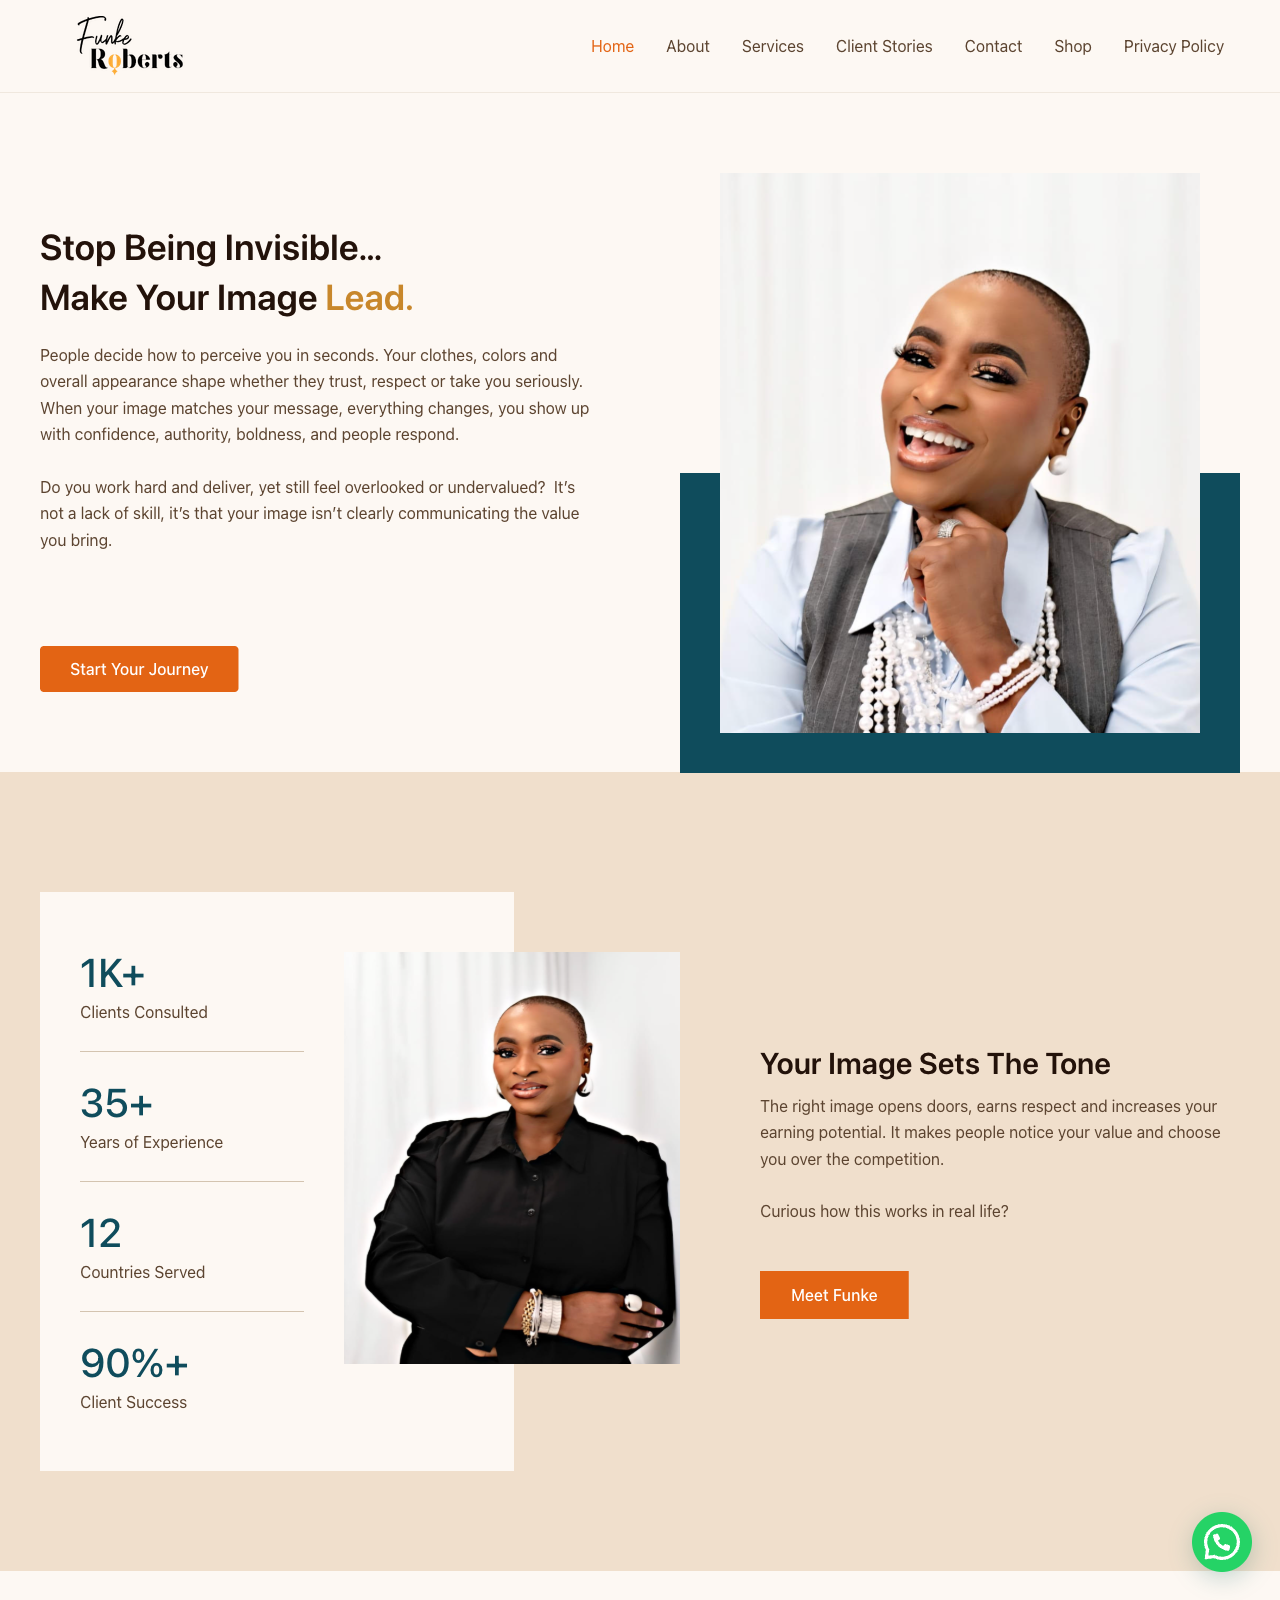
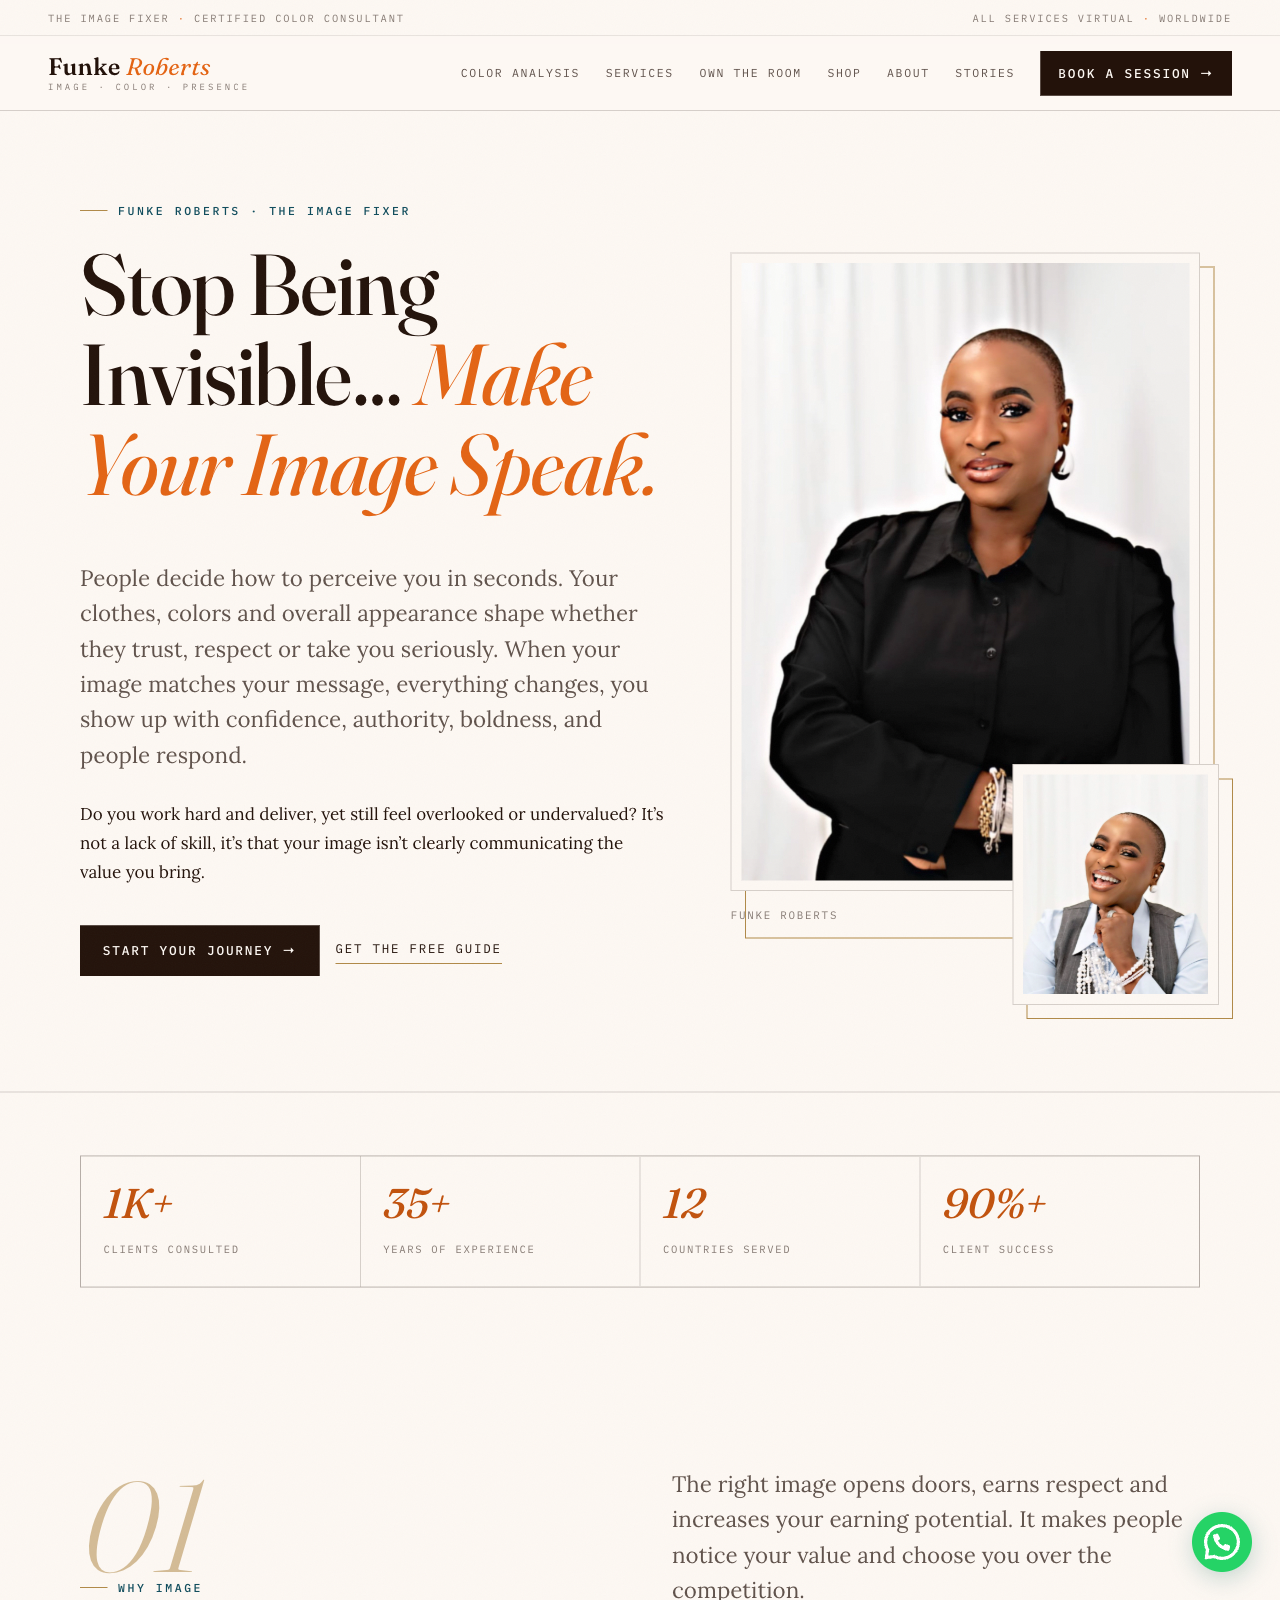
Rewrite Funke Roberts case study for the 2026 editorial redesign
New live-site screenshot, corrected stack (custom theme + SureCart, was
listed as WooCommerce/Elementor), guided entry flow + email automation
in the story. Adds missing SOCIAL_LINKS.facebook key referenced by Navbar.

diff --git a/constants.ts b/constants.ts
@@ -121,24 +121,24 @@ export const PROJECTS: Project[] = [
   },
   {
     id: '4',
-    title: 'Funke Roberts',
+    title: 'Funke Roberts — The Image Fixer',
     category: 'WEB DESIGN',
     imageUrl: '/projects/funke-roberts.png',
-    description: 'Image consulting brand with a digital storefront. WordPress site featuring personal branding services, client stories, and an integrated e-commerce shop for skincare products.',
-    tags: ['WordPress', 'WooCommerce', 'Brand Design', 'E-Commerce'],
+    description: 'Editorial redesign and relaunch for a New York image consultant and certified color analyst. A hand-built WordPress theme with couture-magazine typography, a guided client entry flow written with the client, and automated lead follow-up.',
+    tags: ['WordPress', 'Brand System', 'Email Automation', 'Web Design'],
     liveUrl: 'https://funkeroberts.com',
     year: '2026',
-    problem: 'An image consultant with a powerful personal brand needed a digital presence that matched her authority. Her message—"Stop Being Invisible... Make Your Image Speak"—needed a site that felt premium, conveyed trust, and seamlessly integrated service bookings with product sales.',
+    problem: 'Her message — "Stop Being Invisible... Make Your Image Speak" — deserved more than a template. The first site put her online, but a year in her flagship color analysis was buried three clicks deep, leads went quiet after downloading her free guide, and nothing guided a visitor to the right next step. The redesign rebuilt every page around booking sessions and put follow-up on autopilot.',
     tools: [
-      { name: 'WordPress', reason: 'Chosen for its flexibility in combining content marketing, service pages, and e-commerce under one roof—giving the client full content ownership.' },
-      { name: 'WooCommerce', reason: 'Integrated digital store for skincare products, enabling direct-to-consumer sales alongside consulting services.' },
-      { name: 'Elementor', reason: 'Visual page builder that empowers the client to update content, testimonials, and product listings without developer involvement.' },
-      { name: 'Custom Branding', reason: 'Designed warm, authoritative visual identity with earthy tones that reflect the client\'s personal brand and target audience.' }
+      { name: 'Custom WP Theme', reason: '"Funke Atelier," designed and hand-coded from scratch: Fraunces and Lora editorial typography, hairline-framed photography plates, and magazine pacing — her exact copy and her real client photography, elevated.' },
+      { name: 'Guided Entry Flow', reason: 'A five-option "tell me which sounds most like you" chooser co-written with the client routes every visitor to the right offer, from a $37 workbook to one-to-one sessions.' },
+      { name: 'Email Automation', reason: 'Custom bridge plugin: form submissions deliver her guide instantly and schedule a warm day-7 follow-up recommending a session — no lead goes quiet again.' },
+      { name: 'SureCart', reason: 'Her existing checkout, products, and order history were preserved through a zero-downtime theme cutover — sessions and skincare stayed sellable to the minute.' }
     ],
     effectiveness: {
       status: 'effective',
-      description: 'Funke Roberts\' site successfully positions her as a premium image consultant. The integrated shop creates an additional revenue stream beyond 1-on-1 consulting, and the brand design conveys the authority her clients expect.',
-      metrics: ['Live and serving clients', 'Integrated e-commerce shop', 'Client stories showcase', 'WhatsApp booking integration']
+      description: 'Relaunched July 2026 on the custom editorial theme. The redesign turns a brochure site into a guided path toward her services, with instant guide delivery verified in production and automated follow-up replacing a silent inbox.',
+      metrics: ['Redesigned + relaunched 2026', 'Guided 5-option client entry flow', 'Automated day-7 lead follow-up', 'Zero-downtime cutover, checkout preserved']
     }
   },
   {
@@ -508,4 +508,5 @@ export const SOCIAL_LINKS = {
   github: 'https://github.com/bjtheartist',
   instagram: 'https://www.instagram.com/kivarastudios/',
   twitter: 'https://twitter.com/kivarastudios',
+  facebook: '', // add page URL to show the Facebook link in the navbar
 };
